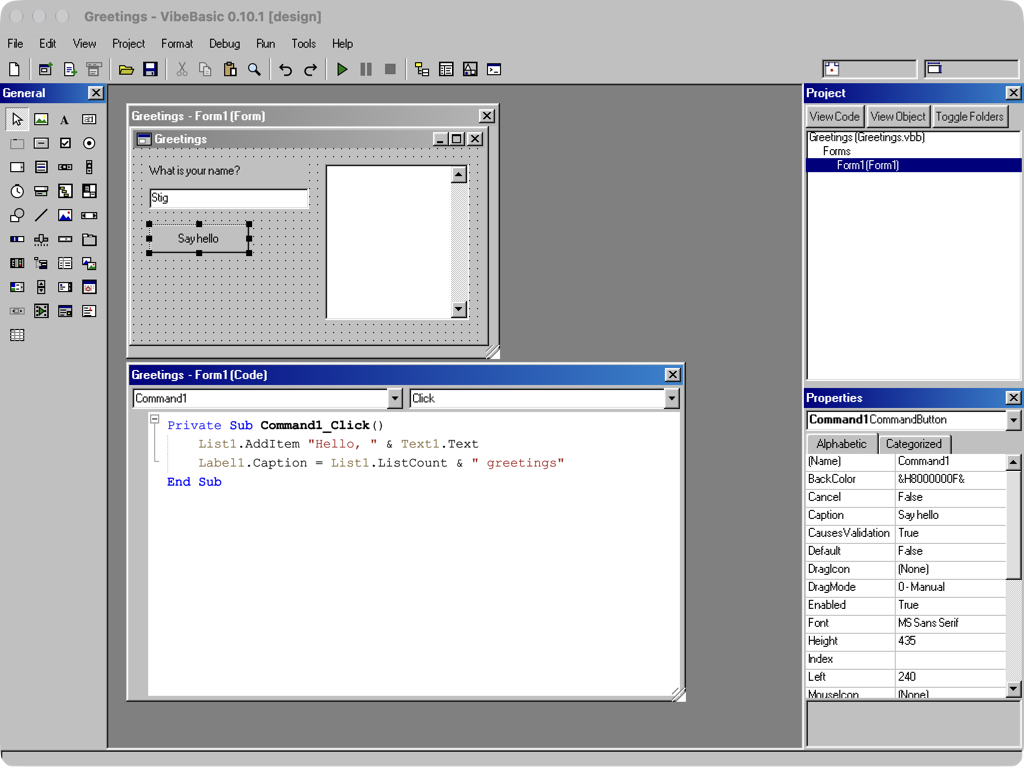
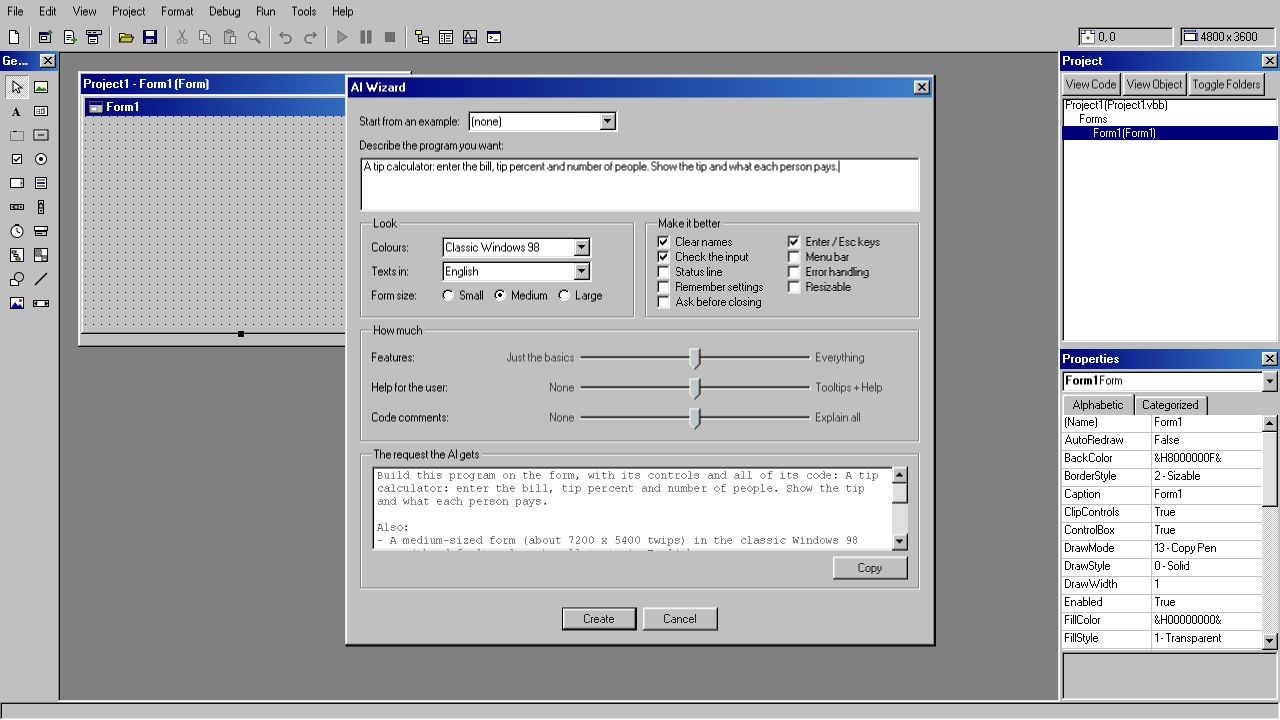
docs: refresh README for 0.10.2 and restored AI Wizard

diff --git a/README.md b/README.md
@@ -2,12 +2,15 @@
 
 # VibeBasic
 
-A Visual Basic 6 clone for macOS, Windows and Linux, with the authentic Windows 98 look and a built-in AI assistant that runs on your own local model.
+A Visual Basic 6 clone for macOS, Windows and Linux, with the authentic Windows 98 look and a built-in AI assistant that connects to OpenAI-compatible servers, including your own local model.
 
-![VibeBasic: a form in the designer next to its code](docs/images/screenshot.png)
+![VibeBasic 0.10.2: the AI Wizard with program description, appearance, improvements and live request preview](docs/images/screenshot.png)
+
+The AI Wizard in 0.10.2: describe a program, choose its appearance and features, and review the request before creating it.
 
 ## What it does
 
+- **New and recent projects:** the startup chooser offers Standard EXE, MDI Application, Sub Main, Data Project and AI Wizard, plus Existing and Recent tabs. File > New Project opens it again; recently opened and saved projects also appear in the File menu.
 - **Form designer:** drag controls onto a form, set their properties and double-click to write event code.
 - **Menus:** Tools > Menu Editor (Ctrl+E) builds a form's menus as in VB6: `&` access keys, separators, submenus, Checked, Enabled and Visible, Shortcut keys, menu control arrays (`Load mnuMRU(i)` for a recent-files list) and `PopupMenu` for context menus. Each form window draws its own Win98 menu bar under its title bar, on every system (on macOS a program's menus never go into the menu bar at the top of the screen). On macOS a Ctrl shortcut also answers to Cmd, except Cmd+C, X, V, A, Z, W and Q, which stay with the Mac.
 - **MDI:** Project > Add MDI Form makes the project's MDI form (the AppWorkspace grey; it holds aligned controls such as a Toolbar, a StatusBar or a PictureBox with Align, and invisible ones). Forms with `MDIChild = True` open inside it as Win98 child windows that move, resize, minimize and maximize within it ("MDIForm1 - [Form2]"); `Arrange`, `ActiveForm`, the Window list menu and merged child menus work as in VB6, and `Dim f As New Form2: f.Show` opens another instance of a form.
@@ -81,6 +84,10 @@ APPLE_SIGNING_IDENTITY="Apple Development: Your Name (TEAMID)"
 ## AI setup
 
 Set up the AI under Tools > Options > AI. Enter the server's base URL, for example `http://<host>:11434/v1` for Ollama or `http://<host>:8000/v1` for vLLM, and press Test Connection: it picks the model, and finds out whether the server understands pictures and structured output. A vision model (such as Qwen3-VL or a multimodal Qwen) lets the AI see your forms. Thinking sets how hard a reasoning model thinks; Low is the fastest.
+
+To create a program, choose **Tools > AI Wizard...** or **File > New Project > AI Wizard**. Start from an example or describe your own program, choose its colours, language and size, and adjust the improvements and sliders. The request updates as you make choices; Copy puts it on the clipboard. Press Create to ask the AI, then review the generated form and code before applying them.
+
+You can open and explore the wizard before configuring AI. If setup is needed when you press Create, save the server and model in Options to continue with the same request. If you turned off the startup chooser, the wizard remains available under Tools; **Tools > Options > General > Prompt for project at startup** restores the chooser.
 
 ## Status
 
